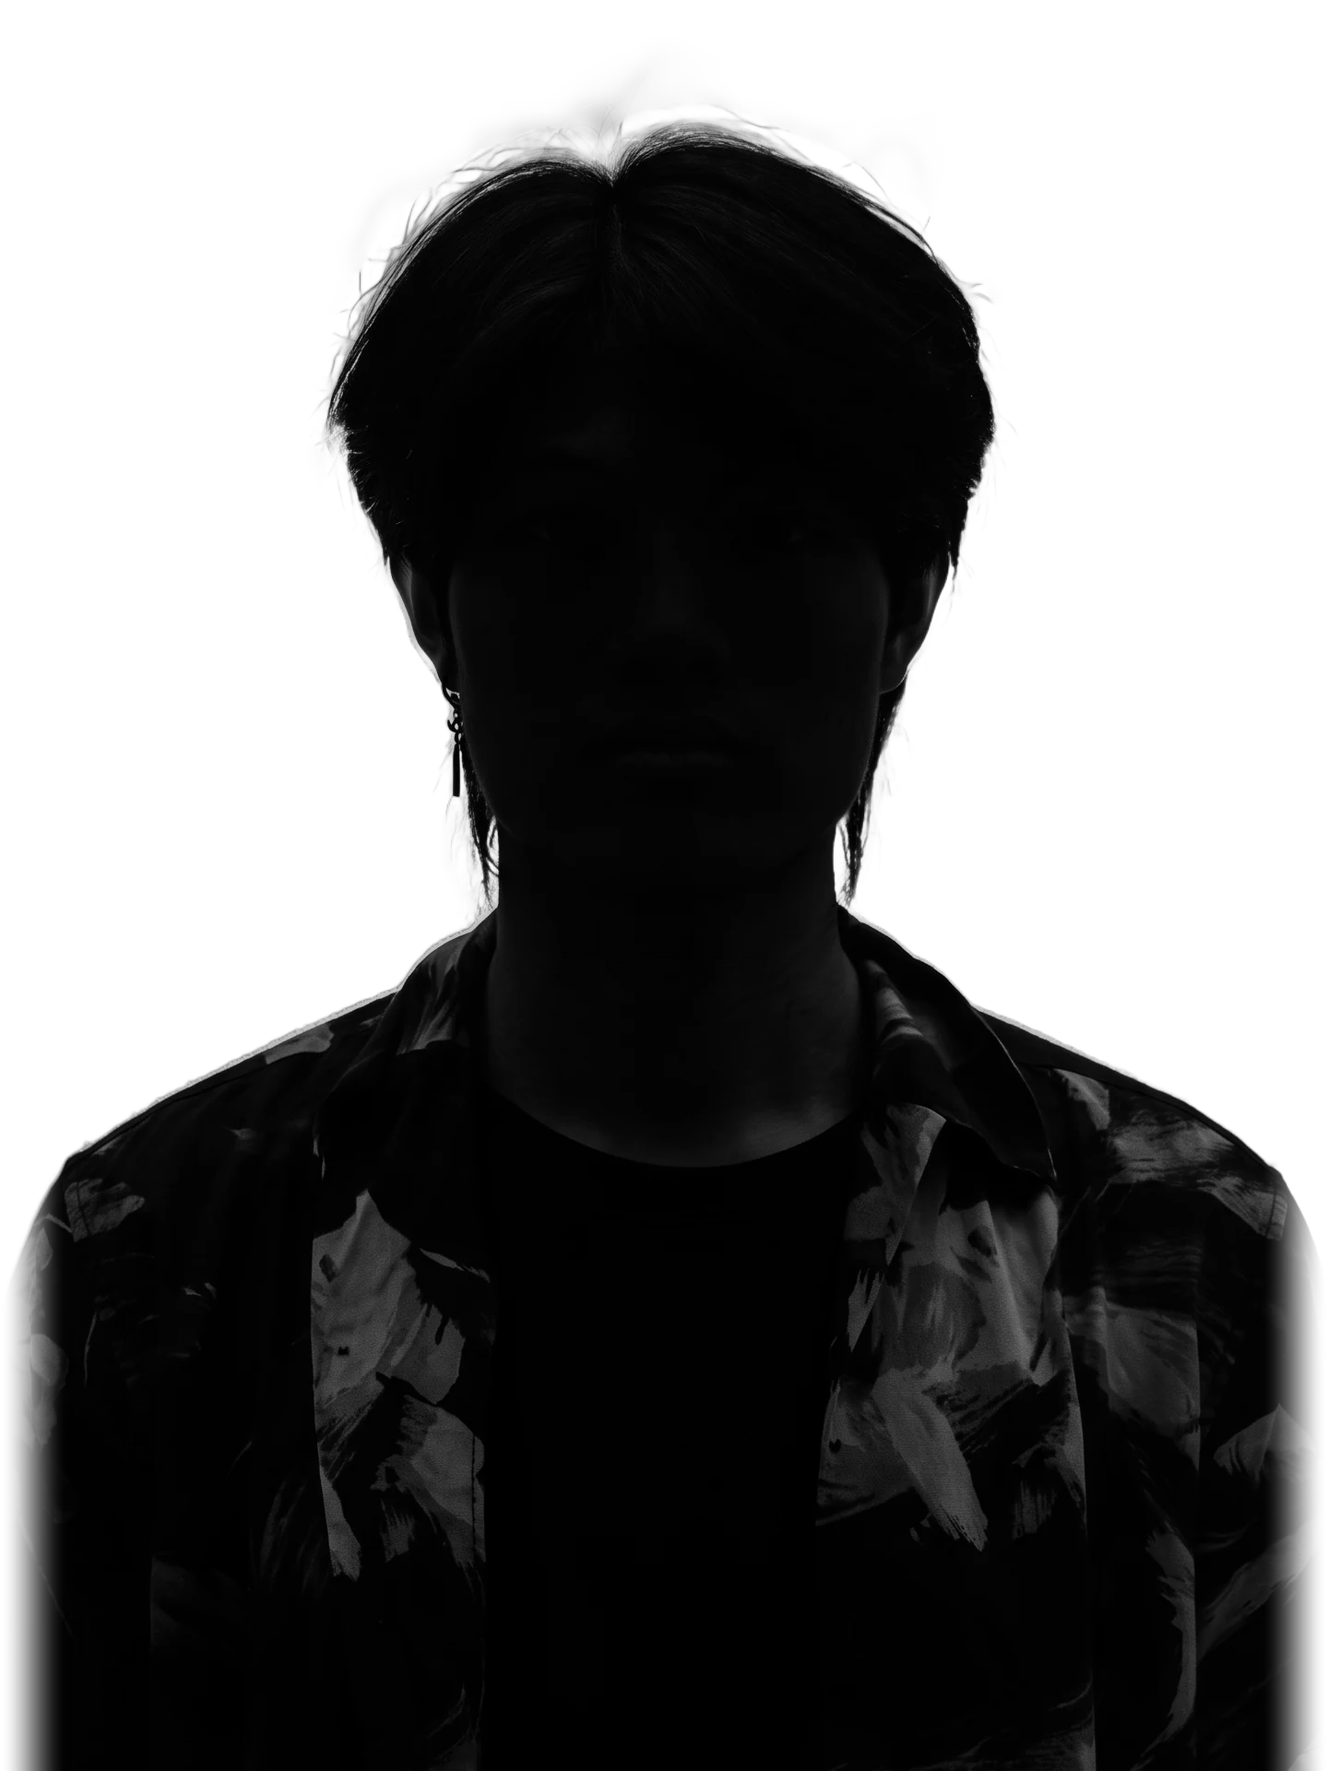
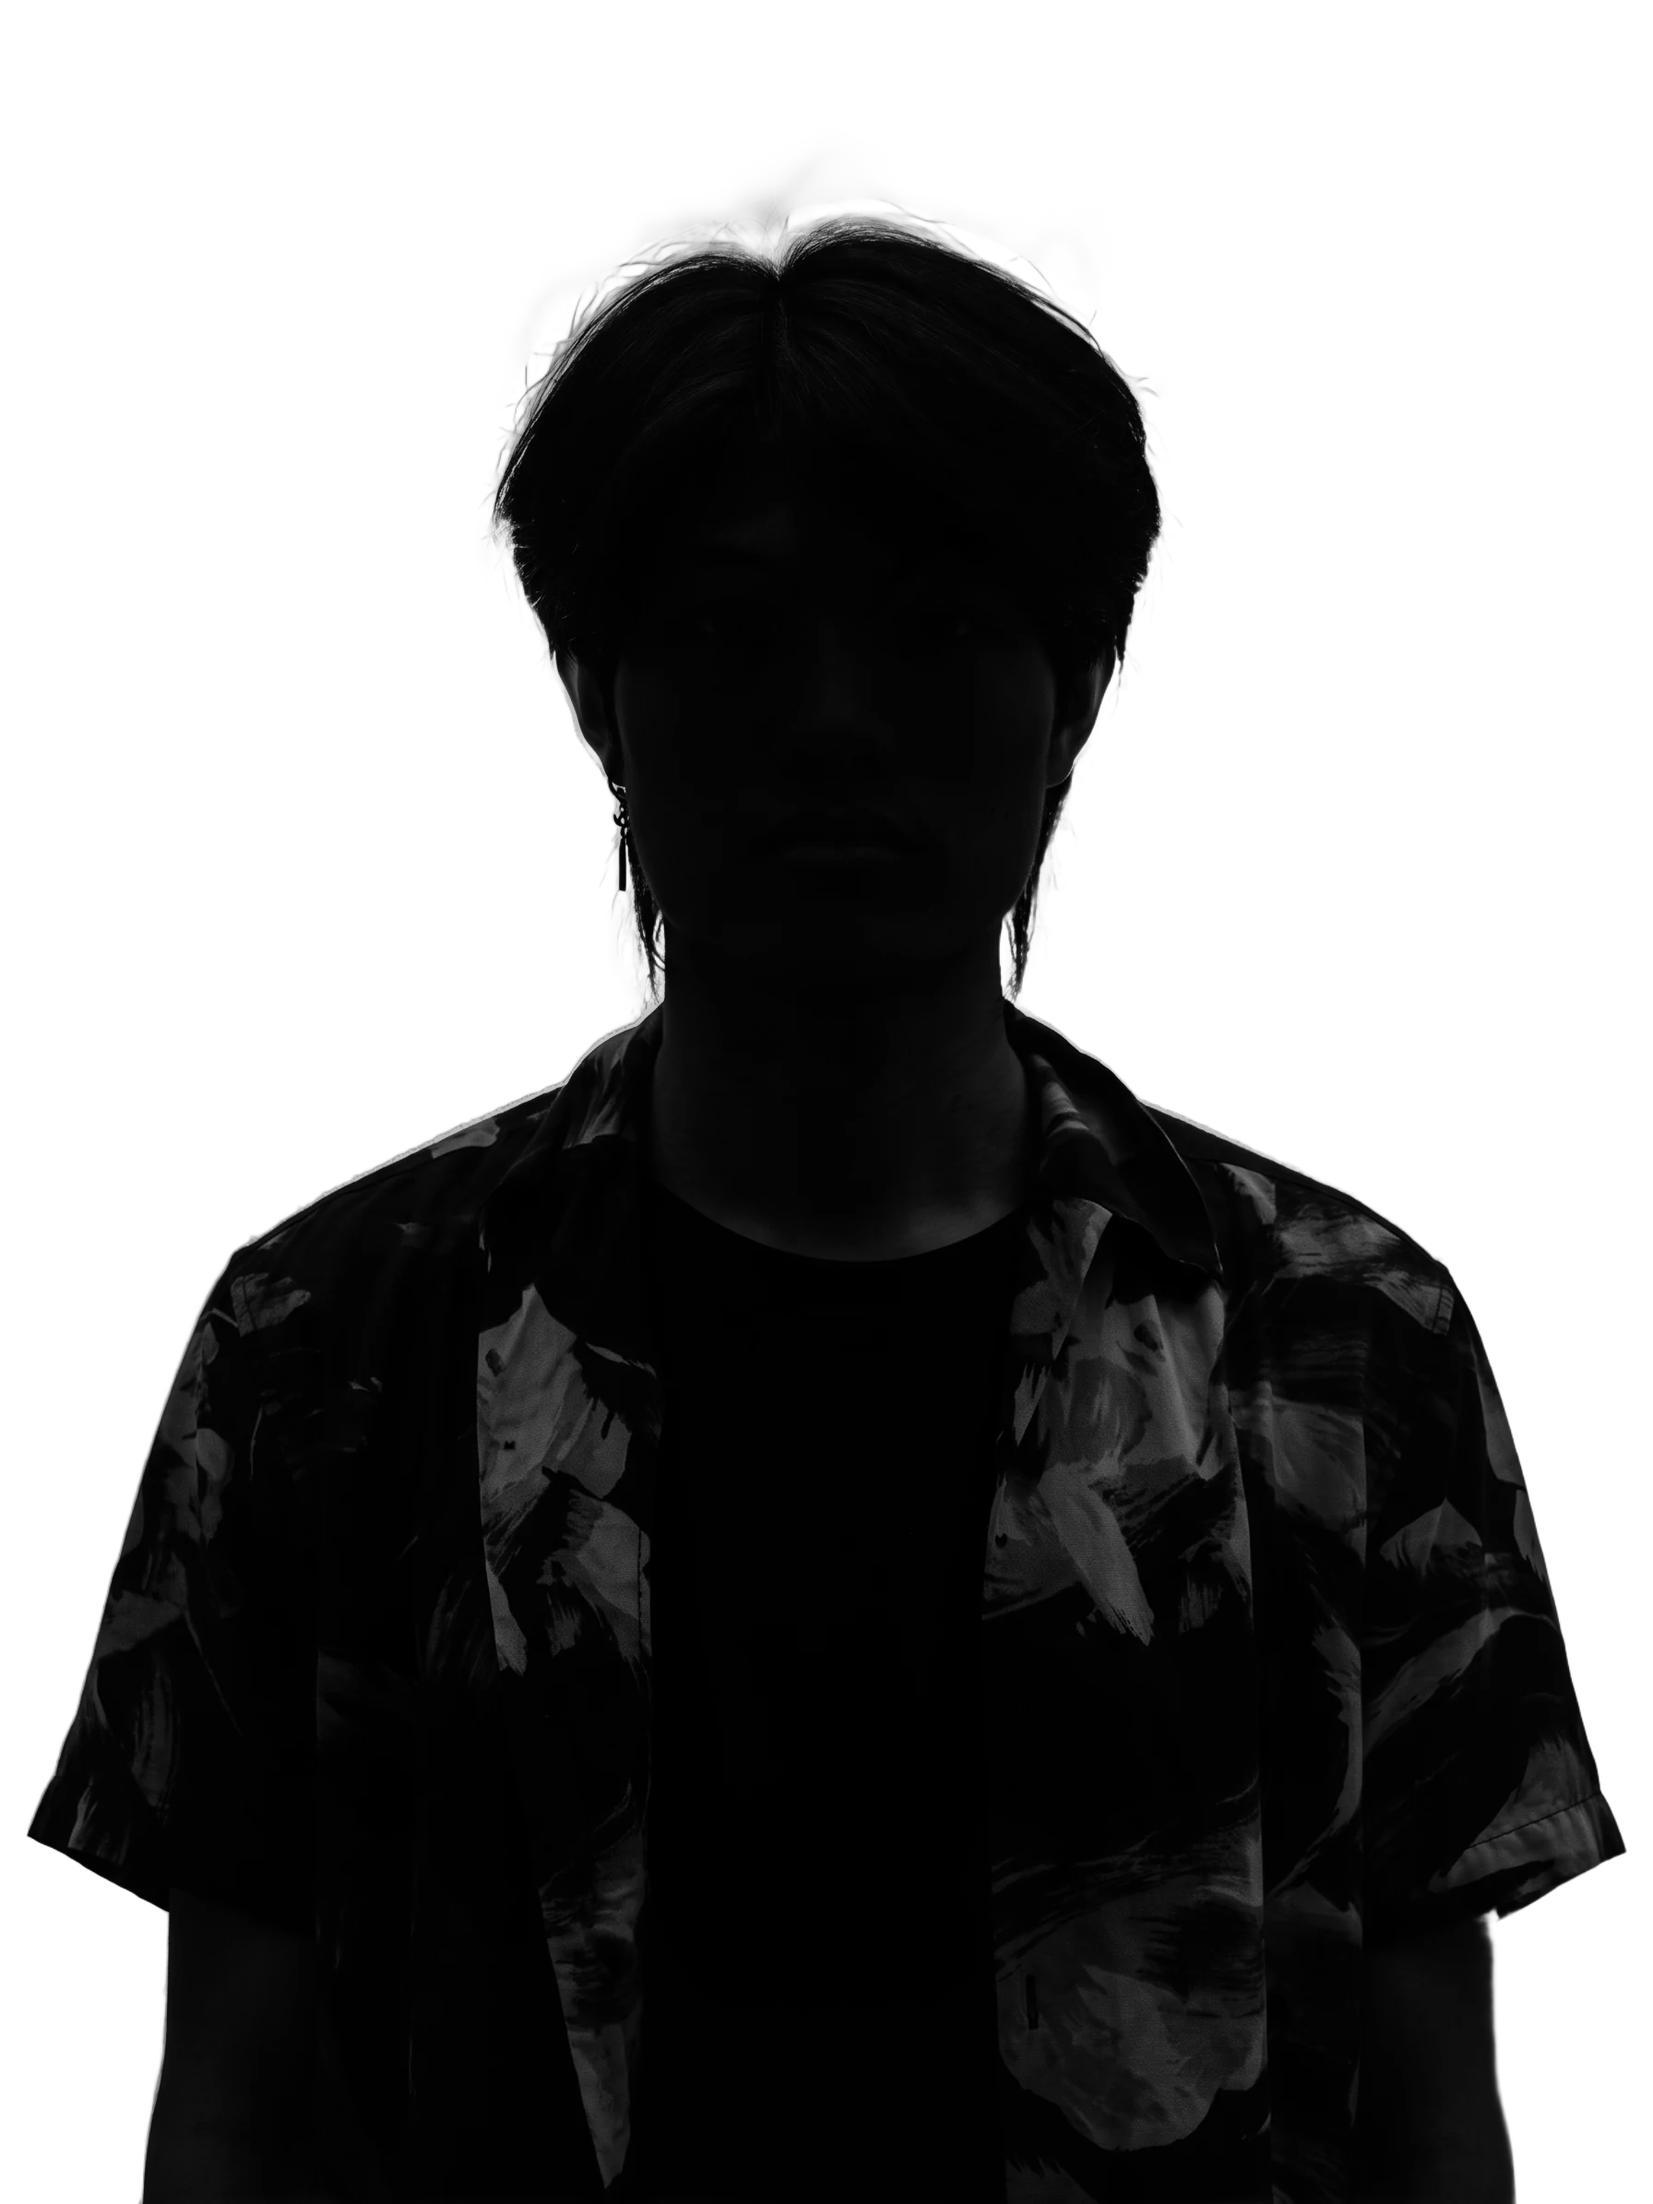
fix: the hero portrait's shoulders end in their own shape on desktop
The tight crop cut the sleeves at the box edges and faded them, which read as a narrow column on
wide screens. The picture is now the whole graded cut-out (1792x2389), with --zoom and --lift
rescaled so the head keeps its size and place (phones look the same).

diff --git a/src/components/hero/CoverFigure.module.css b/src/components/hero/CoverFigure.module.css
@@ -18,10 +18,11 @@
 }
 /* the portrait is drawn bigger than its box, a close-up like a magazine cover: --zoom times the
    box, its top --lift above the box's top (toward the top of the hero), running off the bottom
-   (the hero clips it). The tags stay placed on the box, so they now point at the face */
+   (the hero clips it). The picture is the whole cut-out, so the sleeves end in their own shape at
+   the sides. The tags stay placed on the box, so they now point at the face */
 .figure {
-  --zoom: 1.73;
-  --lift: 26%;
+  --zoom: 2.153;
+  --lift: 35.2%;
 }
 .portrait {
   inset: auto;
@@ -74,7 +75,7 @@
     bottom: 0;
     height: calc(64% + 64px);
     /* a gentler close-up: the hair starts under the intro's button */
-    --zoom: 1.25;
-    --lift: 4%;
+    --zoom: 1.556;
+    --lift: 10.6%;
   }
 }

diff --git a/src/components/hero/CoverFigure.tsx b/src/components/hero/CoverFigure.tsx
@@ -23,7 +23,7 @@ export default function CoverFigure({ children }: { children?: React.ReactNode }
               fetchPriority="high"
               // the box is 3:4 and ~78% of the hero's height (64% on phones), and the picture is
               // drawn --zoom times it (CoverFigure.module.css), so size it by height
-              sizes="(max-width: 900px) calc(60vh + 60px), max(911px, 102vh)"
+              sizes="(max-width: 900px) calc(75vh + 75px), max(1134px, 126vh)"
               className={styles.photo}
             />
           ) : (
